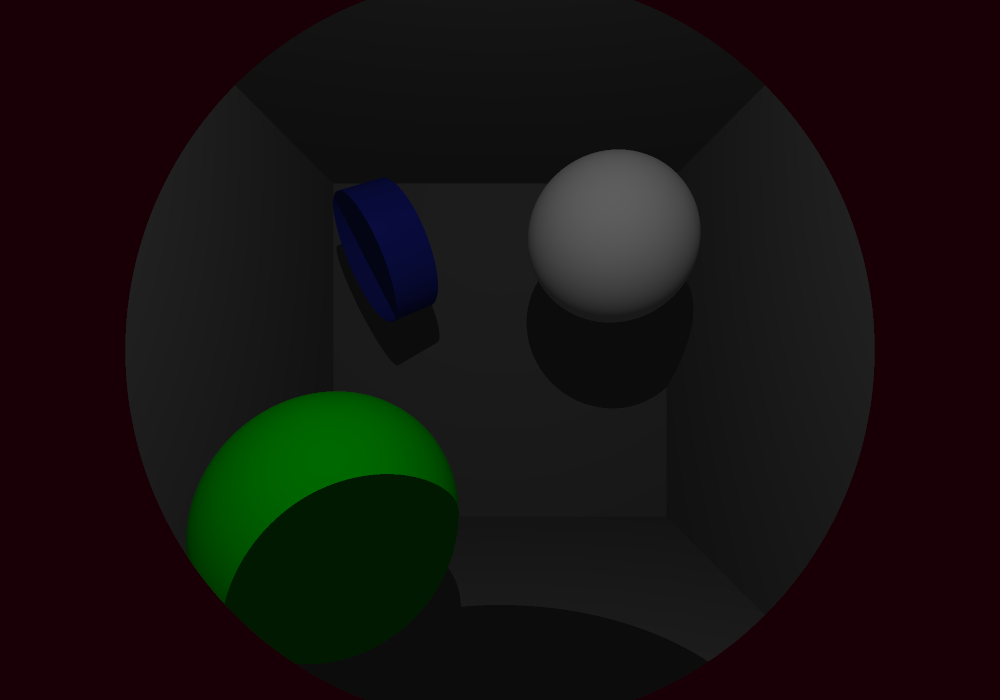
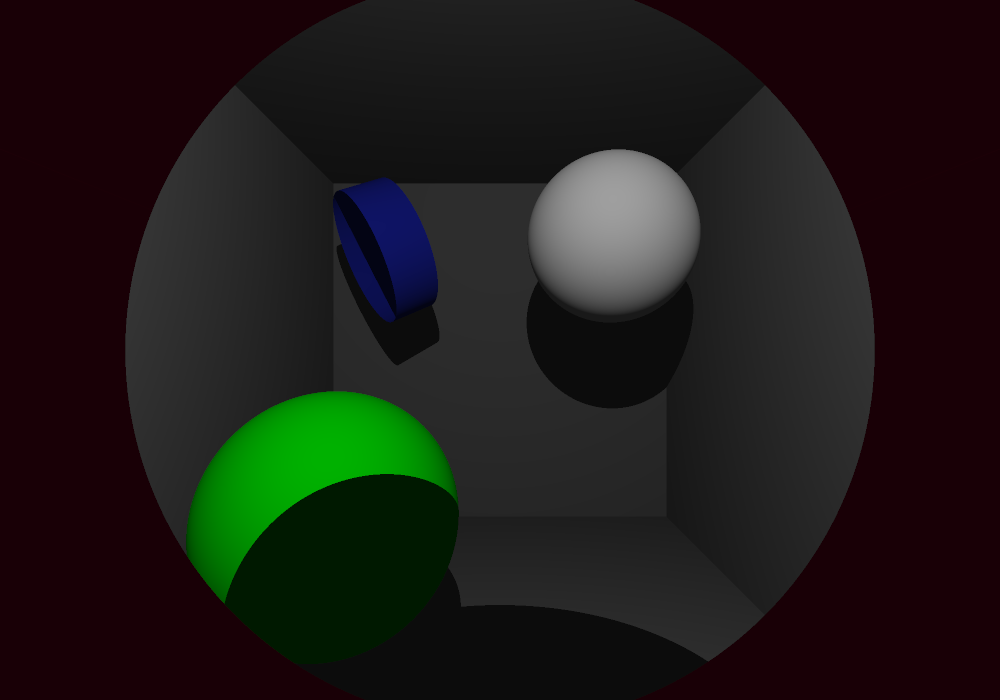
mirror bump-map bug fix?

Changed region(s): [[0.186, 0.54, 0.465, 0.87], [0.527, 0.21, 0.713, 0.45], [0.341, 0.24, 0.434, 0.45]]

diff --git a/sources/ray_tracing/render1.c b/sources/ray_tracing/render1.c
@@ -102,9 +102,9 @@ t_vec	ft_ray_color(t_line	*ray, t_scene *sce, int bounces, float thresh)
 		coef = hit.sh->refl_coef;
 		reflected.dir = ft_reflect(ray->dir, hit.n);
 		reflected.p = ft_vec_add(hit.p, ft_scaled(0.01, reflected.dir));
-		if (hit.sh->bump_map
-			&& ft_same_side(ft_normal(hit.p, hit.sh), reflected.dir, ray->dir))
-			return (color);
+// 		if (hit.sh->bump_map
+// 			&& ft_same_side(ft_normal(hit.p, hit.sh), reflected.dir, ray->dir))
+// 			return (color);
 		refl_color = ft_ray_color(&reflected, sce, bounces - 1, coef * thresh);
 		ft_add_to(&color, ft_scaled(coef, refl_color));
 	}

diff --git a/README.md b/README.md
@@ -10,11 +10,11 @@ Key features include:
 * bump mapping
 
 ## Gallery
-![box](gallery/box.png)
 ![mirror](gallery/mirror.png)
+![earth](gallery/earth.png)
+![box](gallery/box.png)
 ![bicolor](gallery/bicolor.png)
 ![lampshade](gallery/lampshade.png)
-![earth](TODO)
 
 ## A Note about mlx
 This project uses the _mlx_.
@@ -27,8 +27,9 @@ For convenience reasons a copy of its source has been copied inside this repo
 but I obviously **don't own any of it**.
 
 ## Build
-On Unix systems, just 
-`make`.
+On Unix systems, just  
+`make`
+
 Windows not supported.
 
 ## Run
